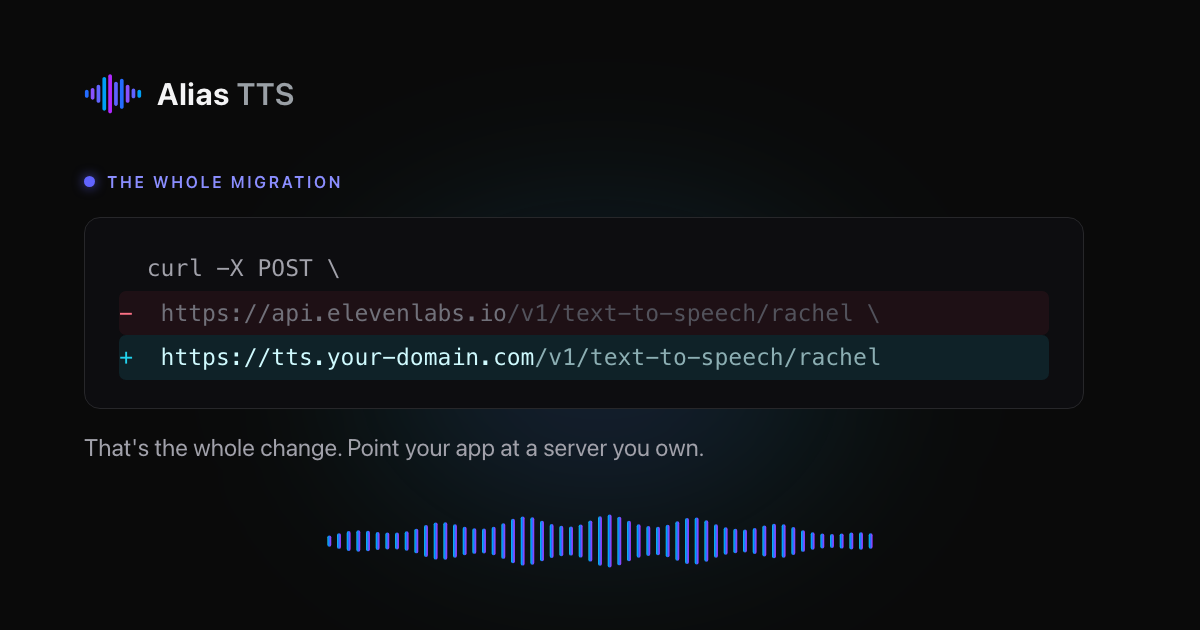
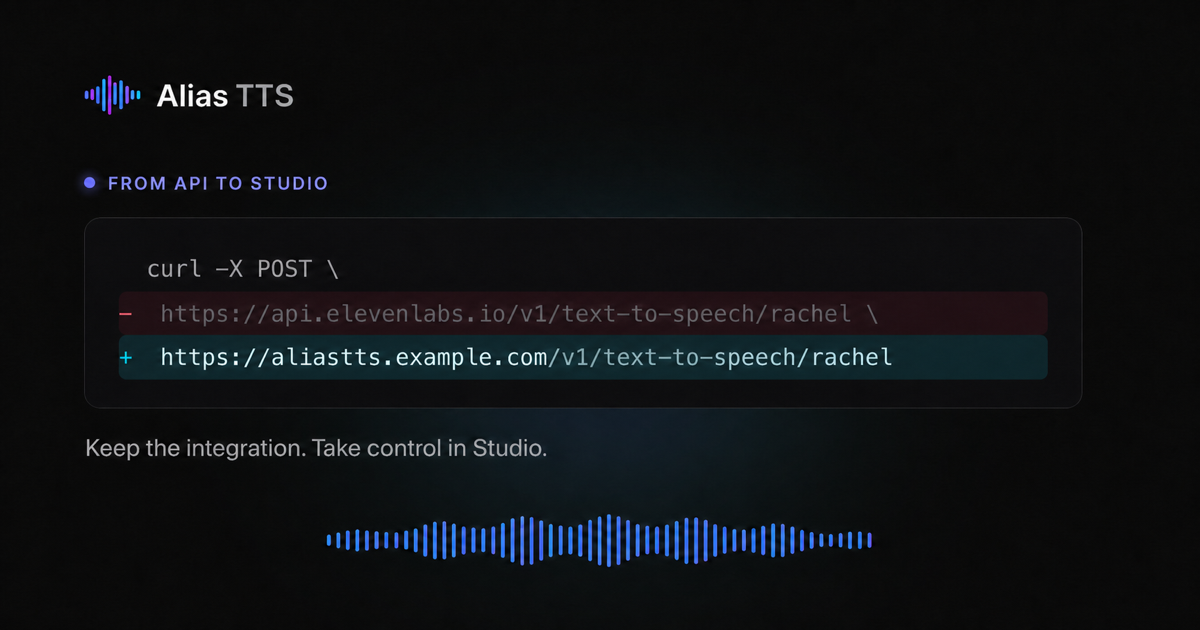
Refocus About page on Studio workflow

diff --git a/resources/views/about.blade.php b/resources/views/about.blade.php
@@ -6,7 +6,7 @@
     <title>About — Alias TTS</title>
     @include('partials.social-meta', [
         'metaTitle'       => 'Alias TTS — change the endpoint, keep the integration',
-        'metaDescription' => 'Self-hosted, ElevenLabs- and OpenAI-compatible text-to-speech: cloned voices, automatic QA, and sealed, verifiable finals.',
+        'metaDescription' => 'ElevenLabs- and OpenAI-compatible text-to-speech with cloned voices, automatic QA, a full production Studio, and verifiable finals.',
         'metaImage'       => 'images/social/alias-tts-about-og.png',
     ])
     <link rel="icon" href="{{ asset('favicon.ico') }}" sizes="32x32">
@@ -85,19 +85,18 @@
             </h1>
 
             <p class="rise mx-auto mt-6 max-w-2xl leading-relaxed text-zinc-400" style="animation-delay: 90ms">
-                Alias TTS is a self-hosted text-to-speech server that answers to two APIs — ElevenLabs and OpenAI.
-                Your client keeps its request shapes, auth headers, and error handling. Behind that compatible
-                interface, every request can become an editable Studio project with a sealed, verifiable final.
-                You host the API, voices, projects, and storage; generation runs on metered GPUs through Replicate.
+                Alias TTS answers to two APIs — ElevenLabs and OpenAI. Your client keeps its request shapes,
+                auth headers, and error handling. Every request can become an editable Studio project, ready
+                to refine and seal as a verifiable final.
             </p>
 
             <div class="rise mx-auto mt-10 max-w-2xl text-left" style="animation-delay: 180ms">
                 <div class="overflow-x-auto rounded-xl border border-zinc-800 bg-[#0d0d10] px-5 py-4 font-mono text-[13px] leading-[2]">
                     <div class="whitespace-pre text-zinc-400"><span class="text-zinc-600">  </span>curl -X POST \</div>
                     <div class="whitespace-pre rounded bg-rose-500/[0.07] text-zinc-500"><span class="text-rose-400/80">- </span>  https://api.elevenlabs.io<span class="text-zinc-600">/v1/text-to-speech/rachel \</span></div>
-                    <div class="whitespace-pre rounded bg-cyan-400/[0.09] text-cyan-100"><span class="text-cyan-300">+ </span>  https://tts.your-domain.com<span class="text-cyan-100/70">/v1/text-to-speech/rachel \</span></div>
+                    <div class="whitespace-pre rounded bg-cyan-400/[0.09] text-cyan-100"><span class="text-cyan-300">+ </span>  https://aliastts.example.com<span class="text-cyan-100/70">/v1/text-to-speech/rachel \</span></div>
                     <div class="whitespace-pre text-zinc-400"><span class="text-zinc-600">  </span>  -H "xi-api-key: sk_..." \</div>
-                    <div class="whitespace-pre text-zinc-400"><span class="text-zinc-600">  </span>  -d '{"text": "Hello from a server I own."}'</div>
+                    <div class="whitespace-pre text-zinc-400"><span class="text-zinc-600">  </span>  -d '{"text": "Hello from my cloned voice."}'</div>
                 </div>
                 <p class="mt-3 text-center text-xs leading-relaxed text-zinc-500">
                     That's the whole migration. OpenAI clients switch the same way — <span class="font-mono text-zinc-400">POST /v1/audio/speech</span> with a Bearer key.
@@ -224,7 +223,7 @@
             </div>
 
             <x-about.shot class="mt-12" file="dashboard.png"
-                          url="https://tts.your-domain.com/admin"
+                          url="https://aliastts.example.com/admin"
                           note="The dashboard home, signed in: the connection panel with base URL, API key, and voice IDs ready to copy into any client."/>
 
             {{-- The landing page's junction in miniature: both dialects converging
@@ -299,12 +298,12 @@
                         <h3 class="text-[15px] font-semibold text-zinc-100">Voices travel</h3>
                         <p class="mt-1.5 text-sm leading-relaxed text-zinc-400">
                             Export any voice as a portable <span class="k">.zip</span> — clip, settings, and all —
-                            and import it on another install.
+                            and import it wherever you use Alias.
                         </p>
                     </div>
                 </div>
                 <x-about.shot file="voices.png"
-                              url="https://tts.your-domain.com/admin/voices/your-voice/edit"
+                              url="https://aliastts.example.com/admin/voices/your-voice/edit"
                               note="A voice's edit page: the delivery dials and the Tune-by-ear A/B bench."/>
             </div>
         </section>
@@ -458,7 +457,7 @@
             </div>
 
             <x-about.shot class="mt-12" file="studio.png"
-                          url="https://tts.your-domain.com/admin/studio/projects/42"
+                          url="https://aliastts.example.com/admin/studio/projects/42"
                           note="A Studio project: the chunk list with per-chunk playback, edit state, and QA badges."/>
         </section>
 
@@ -501,66 +500,8 @@
                     </div>
                 </div>
                 <x-about.shot file="verify.png"
-                              url="https://tts.your-domain.com/verify"
+                              url="https://aliastts.example.com/verify"
                               note="The public verify page confirming a dropped file matches the sealed approval."/>
-            </div>
-        </section>
-
-        {{-- ===== Ownership — the full spectrum, because you run every band of it. ===== --}}
-        <section class="mt-28">
-            <div class="flex items-center gap-2.5">
-                <x-about.glyph gradient gid="g-own"/>
-                <span class="font-mono text-xs font-semibold uppercase tracking-[0.18em] text-zinc-400">Ownership</span>
-            </div>
-            <h2 class="mt-4 text-3xl font-semibold tracking-tight">Yours, all the way down.</h2>
-            <p class="mt-4 max-w-2xl leading-relaxed text-zinc-400">
-                Alias TTS is a stack you deploy, point at, and run — not an account you rent.
-            </p>
-
-            <div class="mt-10 grid gap-x-12 gap-y-8 sm:grid-cols-2 lg:grid-cols-3">
-                <div>
-                    <h3 class="text-[15px] font-semibold text-zinc-100">Your server</h3>
-                    <p class="mt-1.5 text-sm leading-relaxed text-zinc-400">
-                        A Laravel app you deploy anywhere PHP 8.3 runs — or as a single Docker
-                        container — on SQLite, MySQL, or Postgres.
-                    </p>
-                </div>
-                <div>
-                    <h3 class="text-[15px] font-semibold text-zinc-100">Your storage</h3>
-                    <p class="mt-1.5 text-sm leading-relaxed text-zinc-400">
-                        Audio and reference clips live on your disk or your own S3-compatible bucket.
-                    </p>
-                </div>
-                <div>
-                    <h3 class="text-[15px] font-semibold text-zinc-100">Your GPU bill</h3>
-                    <p class="mt-1.5 text-sm leading-relaxed text-zinc-400">
-                        Generation runs on a pay-per-second GPU via Replicate — no monthly subscription —
-                        and Studio shows estimated spend per chunk and per project, so you can see the likely
-                        cost before rendering. For development, an in-repo sidecar runs both engines on your
-                        own hardware, spending nothing.
-                    </p>
-                </div>
-                <div>
-                    <h3 class="text-[15px] font-semibold text-zinc-100">Your team</h3>
-                    <p class="mt-1.5 text-sm leading-relaxed text-zinc-400">
-                        A multi-user dashboard where every account gets its own keys, voices and voice
-                        order, dictionary, and settings — down to output format and chunking.
-                    </p>
-                </div>
-                <div>
-                    <h3 class="text-[15px] font-semibold text-zinc-100">Your health checks</h3>
-                    <p class="mt-1.5 text-sm leading-relaxed text-zinc-400">
-                        <span class="k">tts:doctor</span> and the dashboard's Health page verify the whole
-                        install, with one-click end-to-end test generations.
-                    </p>
-                </div>
-                <div>
-                    <h3 class="text-[15px] font-semibold text-zinc-100">Your portable voices</h3>
-                    <p class="mt-1.5 text-sm leading-relaxed text-zinc-400">
-                        Export a voice — reference clip, settings, and all — as a portable archive, then import
-                        it on another Alias install whenever you move between environments or hosts.
-                    </p>
-                </div>
             </div>
         </section>
 

diff --git a/tests/Feature/AboutPageTest.php b/tests/Feature/AboutPageTest.php
@@ -17,7 +17,11 @@ class AboutPageTest extends TestCase
             ->assertSee('Alias TTS')
             ->assertSee('/v1/text-to-speech/', false)
             ->assertSee('/v1/audio/speech', false)
-            ->assertSee('Fix the sentence, not the file.');
+            ->assertSee('https://aliastts.example.com', false)
+            ->assertSee('Fix the sentence, not the file.')
+            ->assertSee('Take control in Studio.')
+            ->assertDontSee('Self-hosted')
+            ->assertDontSee('Yours, all the way down.');
     }
 
     public function test_about_page_walks_the_signal_with_an_anchored_map(): void
